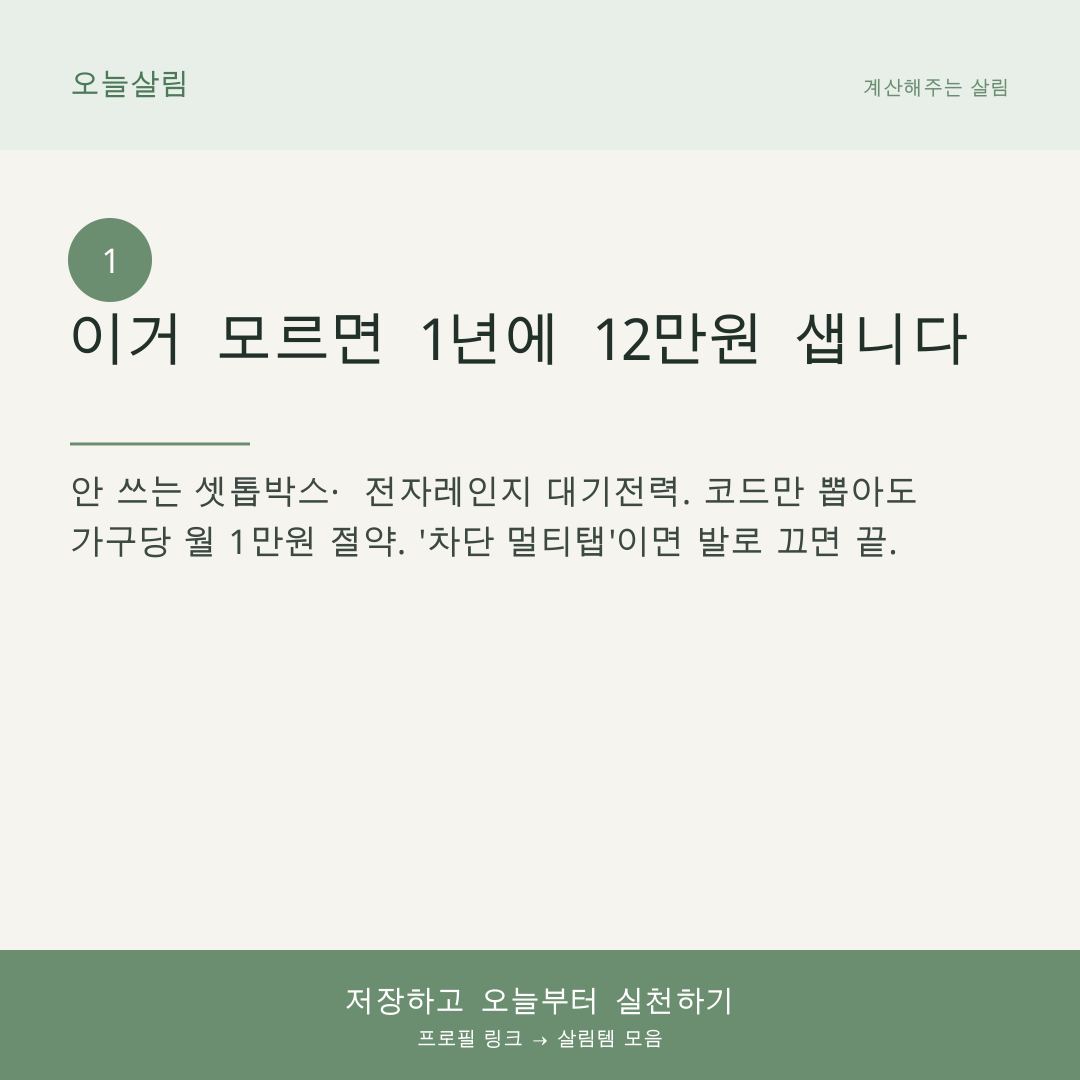
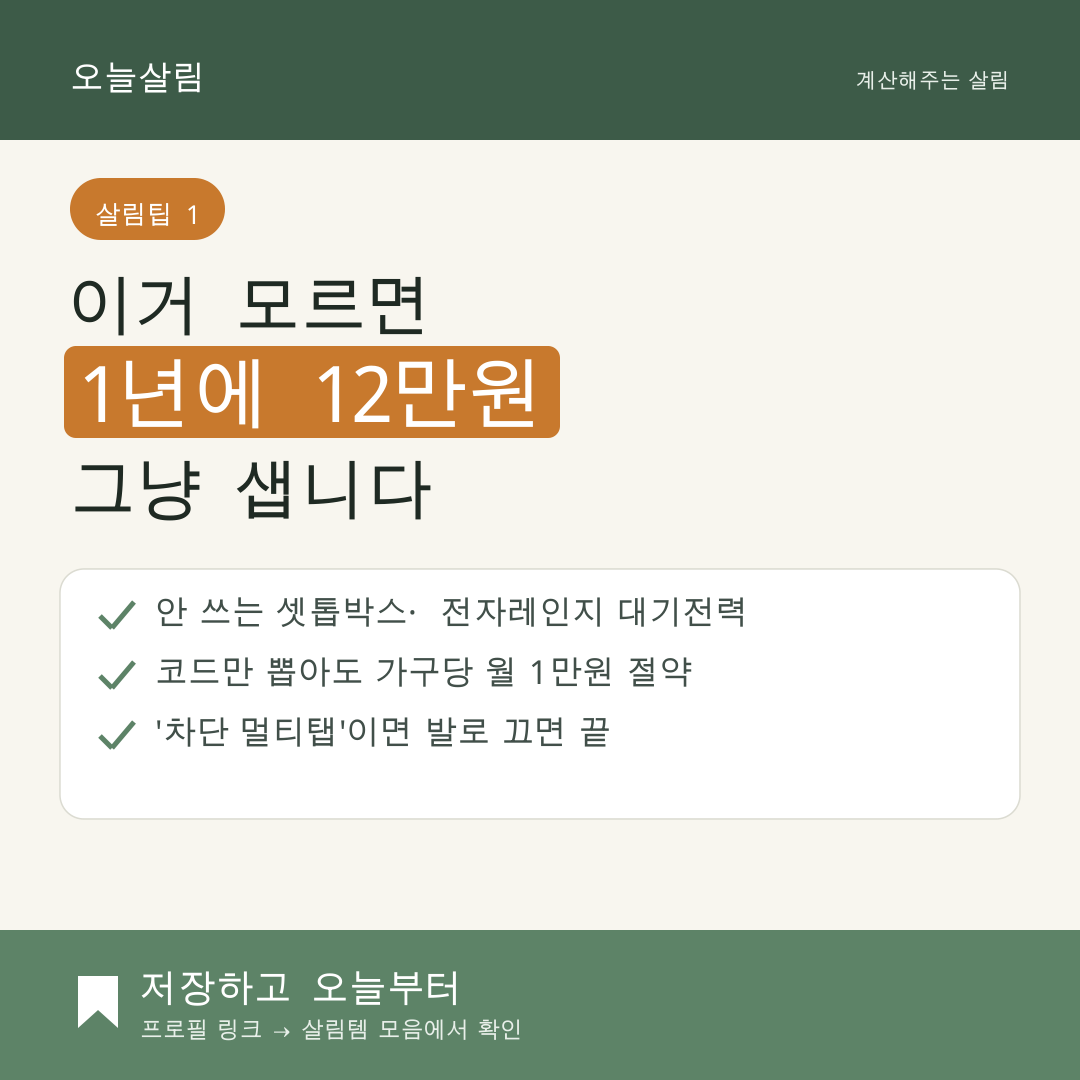
feat(오늘살림): 인스타 카드 v2 — 클릭 유도 디자인 강화
핵심 숫자 골드 하이라이트 박스, 번호 뱃지, 체크 포인트 박스, 북마크 CTA 밴드.
스크롤 멈추는 고대비 디자인으로 개선. 카드1~3 재생성.

Claude-Session: https://claude.ai/code/session_01HkcBr1dE8KzUcvfe3itex9

diff --git a/products/build_card.py b/products/build_card.py
@@ -1,7 +1,6 @@
 # -*- coding: utf-8 -*-
-"""오늘살림 인스타 카드뉴스 생성 (1080x1080 PNG). reportlab→PDF→pymupdf→PNG."""
-import sys, fitz
-from reportlab.lib.units import mm
+"""오늘살림 인스타 카드 v2 — 스크롤 멈추는 디자인. reportlab→PNG."""
+import os, fitz
 from reportlab.lib import colors
 from reportlab.pdfgen import canvas
 from reportlab.pdfbase import pdfmetrics
@@ -11,84 +10,65 @@ pdfmetrics.registerFont(UnicodeCIDFont("HYGothic-Medium"))
 pdfmetrics.registerFont(UnicodeCIDFont("HYSMyeongJo-Medium"))
 GO, MJ = "HYGothic-Medium", "HYSMyeongJo-Medium"
 
-INK   = colors.HexColor("#22312B")
-SAGE  = colors.HexColor("#6B8F71")
-SAGED = colors.HexColor("#4E7A5A")
-SAGEL = colors.HexColor("#E8F0EA")
-CREAM = colors.HexColor("#F7F5EF")
-GRAY  = colors.HexColor("#8A8A80")
+INK  = colors.HexColor("#1F2A24")
+SAGE = colors.HexColor("#5E8468")
+SAGED= colors.HexColor("#3D5C48")
+SAGEL= colors.HexColor("#E8F0EA")
+CREAM= colors.HexColor("#F8F6F0")
+WHITE= colors.white
+GOLD = colors.HexColor("#C8792E")
+BODY = colors.HexColor("#41504A")
+LINE = colors.HexColor("#DCDCD2")
+S = 1080
 
-S = 1080  # px = pt (render at 72dpi)
+def tw(t, f, s): return pdfmetrics.stringWidth(t, f, s)
 
-def wrap(c, text, font, size, maxw):
-    words, lines, cur = text.split(" "), [], ""
-    for w in words:
-        t = (cur + " " + w).strip()
-        if pdfmetrics.stringWidth(t, font, size) <= maxw:
-            cur = t
-        else:
-            if cur: lines.append(cur)
-            cur = w
-    if cur: lines.append(cur)
-    return lines
-
-def make_card(num, hook, body, cta, out):
+def make(num, pre, key, post, points, cta, out):
     c = canvas.Canvas(out, pagesize=(S, S))
-    # 배경
     c.setFillColor(CREAM); c.rect(0, 0, S, S, fill=1, stroke=0)
-    # 상단 밴드
-    c.setFillColor(SAGEL); c.rect(0, S-150, S, 150, fill=1, stroke=0)
-    c.setFillColor(SAGED); c.setFont(GO, 30)
-    c.drawString(70, S-95, "오늘살림")
-    c.setFillColor(SAGE); c.setFont(MJ, 20)
-    c.drawRightString(S-70, S-95, "계산해주는 살림")
-    # 번호 뱃지
-    c.setFillColor(SAGE); c.circle(110, S-260, 42, fill=1, stroke=0)
-    c.setFillColor(colors.white); c.setFont(GO, 34)
-    c.drawCentredString(110, S-273, str(num))
-    # 후크 (큰 글씨)
-    y = S-360
-    c.setFillColor(INK)
-    for ln in wrap(c, hook, GO, 58, S-140):
-        c.setFont(GO, 58); c.drawString(70, y, ln); y -= 74
-    # 구분선
-    y -= 10
-    c.setStrokeColor(SAGE); c.setLineWidth(3); c.line(70, y, 250, y); y -= 60
-    # 본문
-    c.setFillColor(colors.HexColor("#3C4A42"))
-    for ln in wrap(c, body, MJ, 34, S-140):
-        c.setFont(MJ, 34); c.drawString(70, y, ln); y -= 50
-    # 하단 CTA 바
-    c.setFillColor(SAGE); c.rect(0, 0, S, 130, fill=1, stroke=0)
-    c.setFillColor(colors.white); c.setFont(GO, 30)
-    c.drawCentredString(S/2, 68, cta)
-    c.setFont(MJ, 20)
-    c.drawCentredString(S/2, 34, "프로필 링크 → 살림템 모음")
+    c.setFillColor(SAGED); c.rect(0, S-140, S, 140, fill=1, stroke=0)
+    c.setFillColor(WHITE); c.setFont(GO, 34); c.drawString(70, S-90, "오늘살림")
+    c.setFillColor(SAGEL); c.setFont(MJ, 21); c.drawRightString(S-70, S-88, "계산해주는 살림")
+    c.setFillColor(GOLD); c.roundRect(70, S-240, 155, 62, 31, fill=1, stroke=0)
+    c.setFillColor(WHITE); c.setFont(GO, 26); c.drawCentredString(147, S-224, "살림팁 %d" % num)
+    y = S-330
+    c.setFillColor(INK); c.setFont(GO, 66); c.drawString(70, y, pre); y -= 92
+    kw = tw(key, GO, 78)
+    c.setFillColor(GOLD); c.roundRect(64, y-16, kw+28, 92, 12, fill=1, stroke=0)
+    c.setFillColor(WHITE); c.setFont(GO, 78); c.drawString(78, y, key); y -= 92
+    c.setFillColor(INK); c.setFont(GO, 66); c.drawString(70, y, post)
+    box_top = y - 55
+    ph = 60*len(points) + 70
+    c.setFillColor(WHITE); c.roundRect(60, box_top-ph, S-120, ph, 24, fill=1, stroke=0)
+    c.setStrokeColor(LINE); c.setLineWidth(1.5); c.roundRect(60, box_top-ph, S-120, ph, 24, fill=0, stroke=1)
+    py = box_top - 55
+    for p in points:
+        c.setStrokeColor(SAGE); c.setLineWidth(5)
+        c.line(100, py+8, 112, py-4); c.line(112, py-4, 134, py+22)
+        c.setFillColor(BODY); c.setFont(MJ, 33); c.drawString(155, py, p); py -= 60
+    c.setFillColor(SAGE); c.rect(0, 0, S, 150, fill=1, stroke=0)
+    c.setFillColor(WHITE); c.rect(78, 52, 40, 52, fill=1, stroke=0)
+    pth=c.beginPath(); pth.moveTo(78,52); pth.lineTo(98,70); pth.lineTo(118,52); pth.close()
+    c.setFillColor(SAGE); c.drawPath(pth, fill=1, stroke=0)
+    c.setFillColor(WHITE); c.setFont(GO, 38); c.drawString(140, 78, cta)
+    c.setFillColor(SAGEL); c.setFont(MJ, 23); c.drawString(140, 42, "프로필 링크 → 살림템 모음에서 확인")
     c.showPage(); c.save()
-    # PNG 변환
-    doc = fitz.open(out.replace(".png", ".pdf") if out.endswith(".png") else out)
-    return out
 
-# 카드 데이터 (num, hook, body, cta)
 CARDS = [
-    (1, "이거 모르면 1년에 12만원 샙니다",
-     "안 쓰는 셋톱박스・전자레인지 대기전력. 코드만 뽑아도 가구당 월 1만원 절약. '차단 멀티탭'이면 발로 끄면 끝.",
-     "저장하고 오늘부터 실천하기"),
-    (2, "설거지 시간 반으로 줄이는 순서",
-     "유리컵 → 수저 → 그릇 → 기름기 순. 기름때를 마지막에 몰면 물・세제 낭비 없음. 물 받아 담가두기가 핵심.",
-     "저장 필수 · 오늘 저녁부터"),
-    (3, "냉장고 3칸으로 일주일 버티는 법",
-     "냉동실 '먼저 먹기' 칸 지정 / 사기 전 사진 찍기 / 주 1회 냉파데이. 장보기 30% 줄어요.",
-     "냉파 같이 할 사람 저장하기"),
+ (1,"이거 모르면","1년에 12만원","그냥 샙니다",
+  ["안 쓰는 셋톱박스・전자레인지 대기전력","코드만 뽑아도 가구당 월 1만원 절약","'차단 멀티탭'이면 발로 끄면 끝"],
+  "저장하고 오늘부터"),
+ (2,"설거지 시간","반으로","줄이는 순서",
+  ["유리컵 → 수저 → 그릇 → 기름기 순서로","기름때 마지막에 몰면 물・세제 절약","물 받아 '담가두기'가 핵심"],
+  "저장 필수, 오늘 저녁부터"),
+ (3,"냉장고 3칸으로","일주일","버티는 법",
+  ["냉동실 '먼저 먹기' 칸 지정하기","장보기 전 냉장고 사진 찍기","주 1회 '냉파데이' → 장보기 30% 감소"],
+  "냉파 같이 할 사람 저장"),
 ]
-import os
 os.makedirs("/home/user/memory/products/cards", exist_ok=True)
-for num, hook, body, cta in CARDS:
-    pdf = f"/home/user/memory/products/cards/card{num}.pdf"
-    make_card(num, hook, body, cta, pdf)
-    d = fitz.open(pdf)
-    pix = d[0].get_pixmap(dpi=72)
-    png = f"/home/user/memory/products/cards/오늘살림_카드{num}.png"
-    pix.save(png)
-    d.close(); os.remove(pdf)
-    print("saved", png, pix.width, "x", pix.height)
+for num,pre,key,post,pts,cta in CARDS:
+    pdf="/home/user/memory/products/cards/_c%d.pdf"%num
+    make(num,pre,key,post,pts,cta,pdf)
+    d=fitz.open(pdf); pix=d[0].get_pixmap(dpi=72)
+    png="/home/user/memory/products/cards/오늘살림_카드%d.png"%num
+    pix.save(png); d.close(); os.remove(pdf); print("saved",png)
